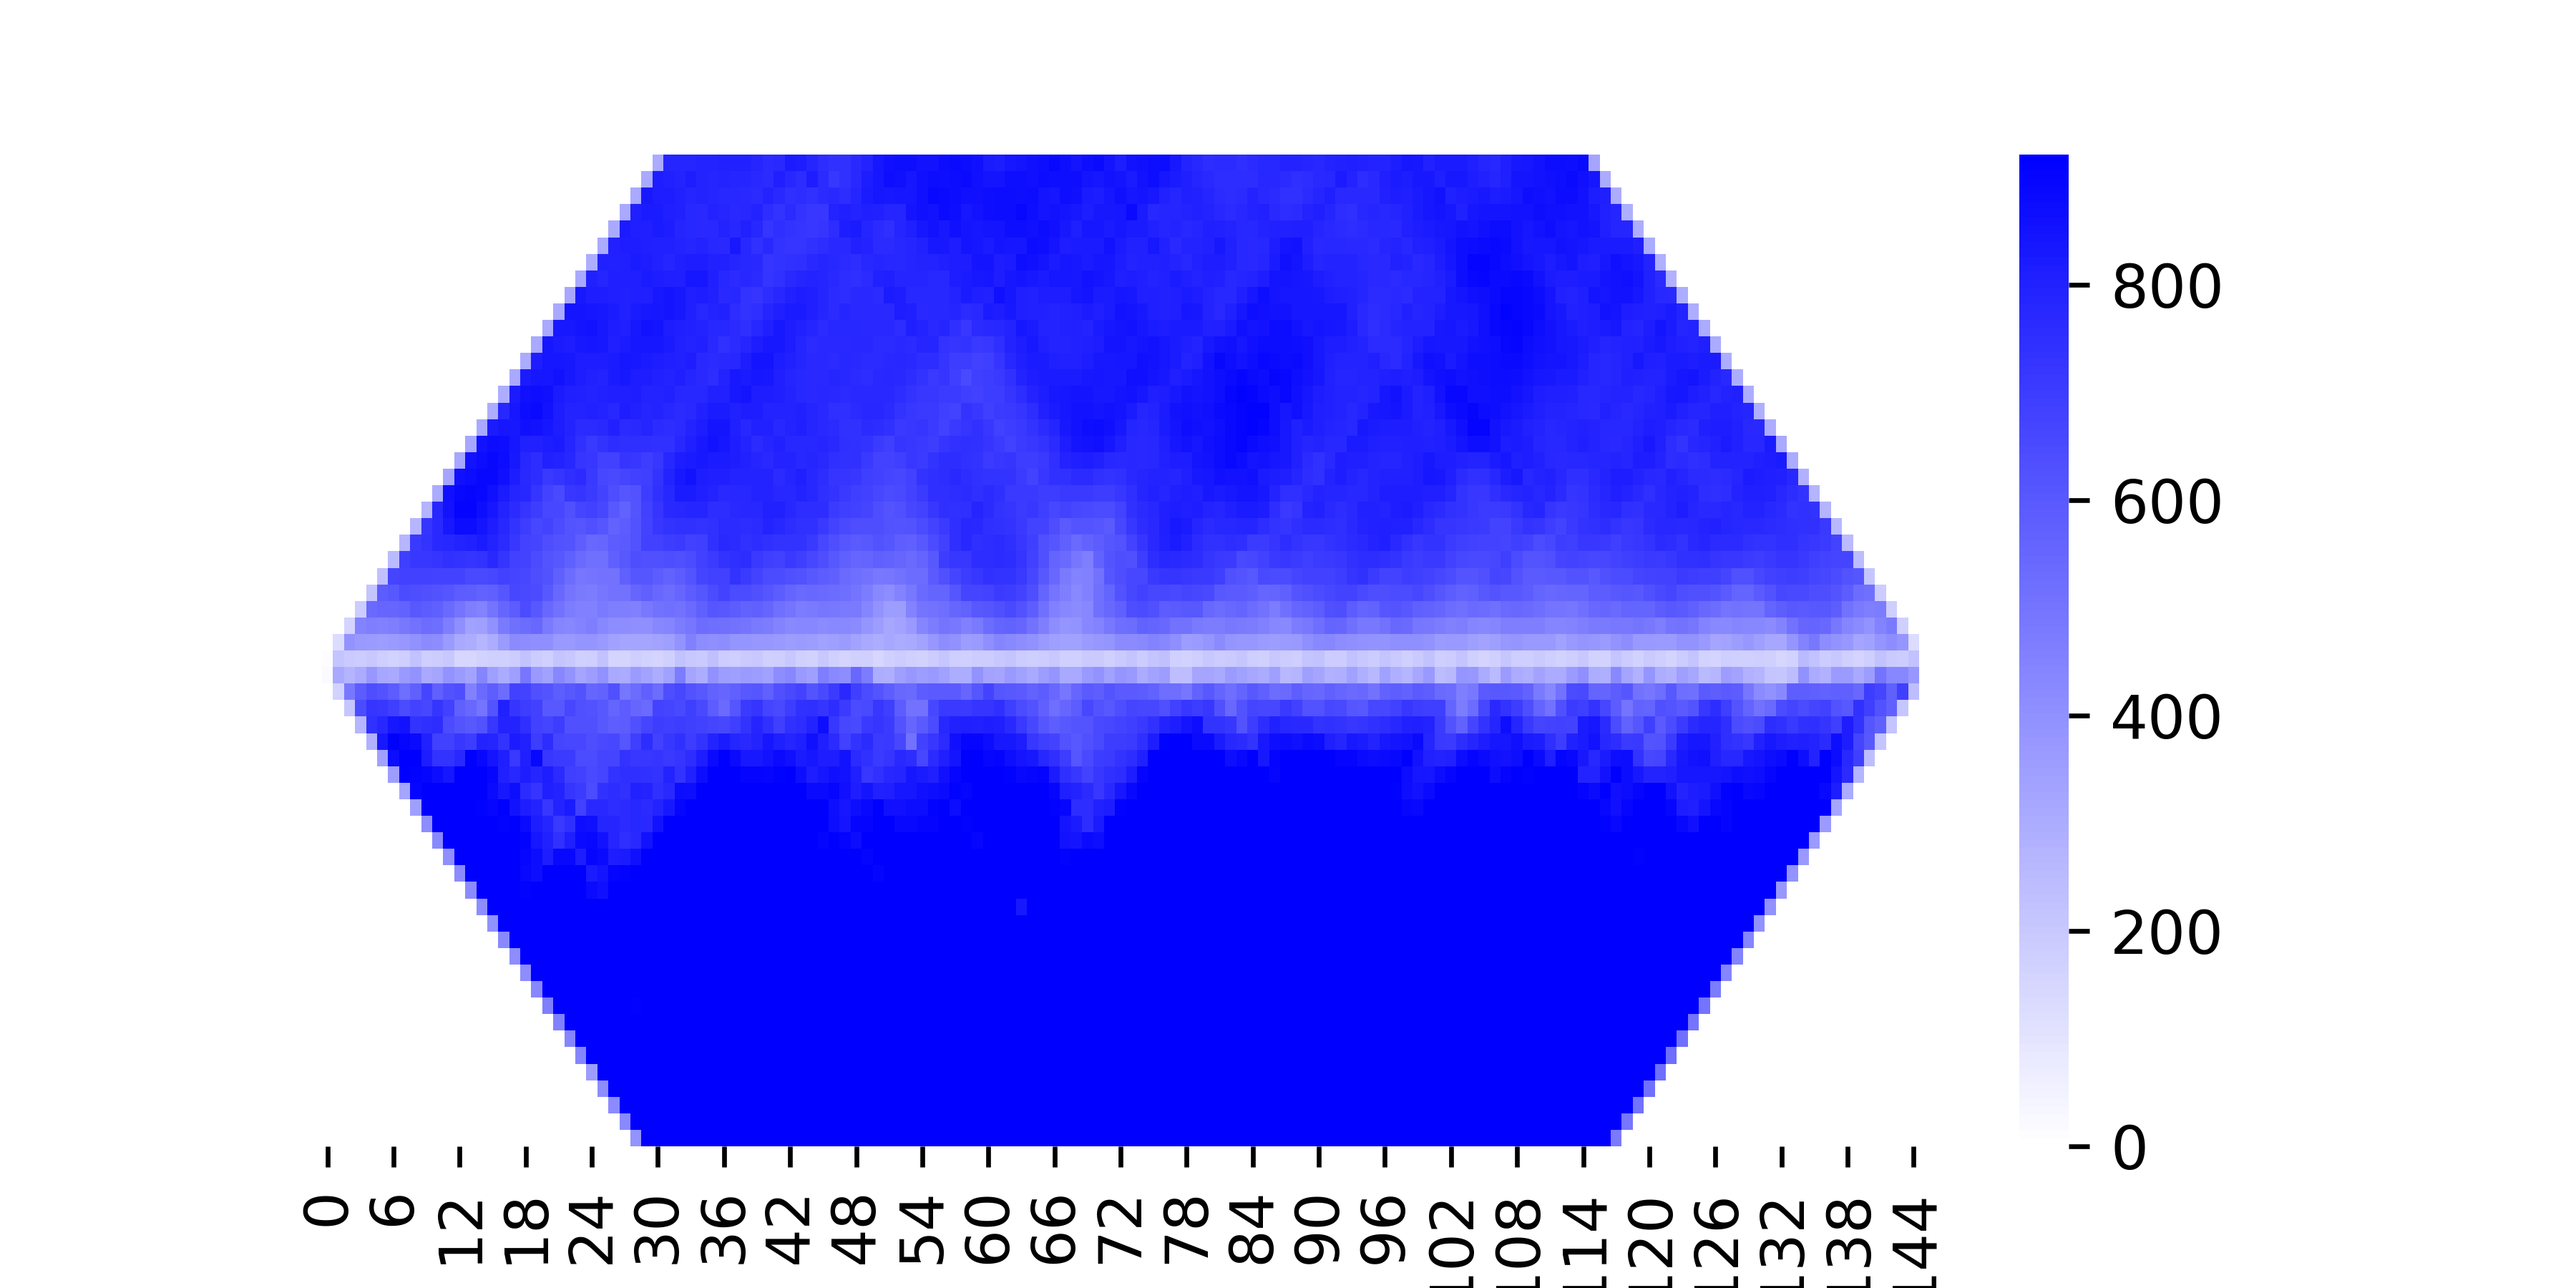
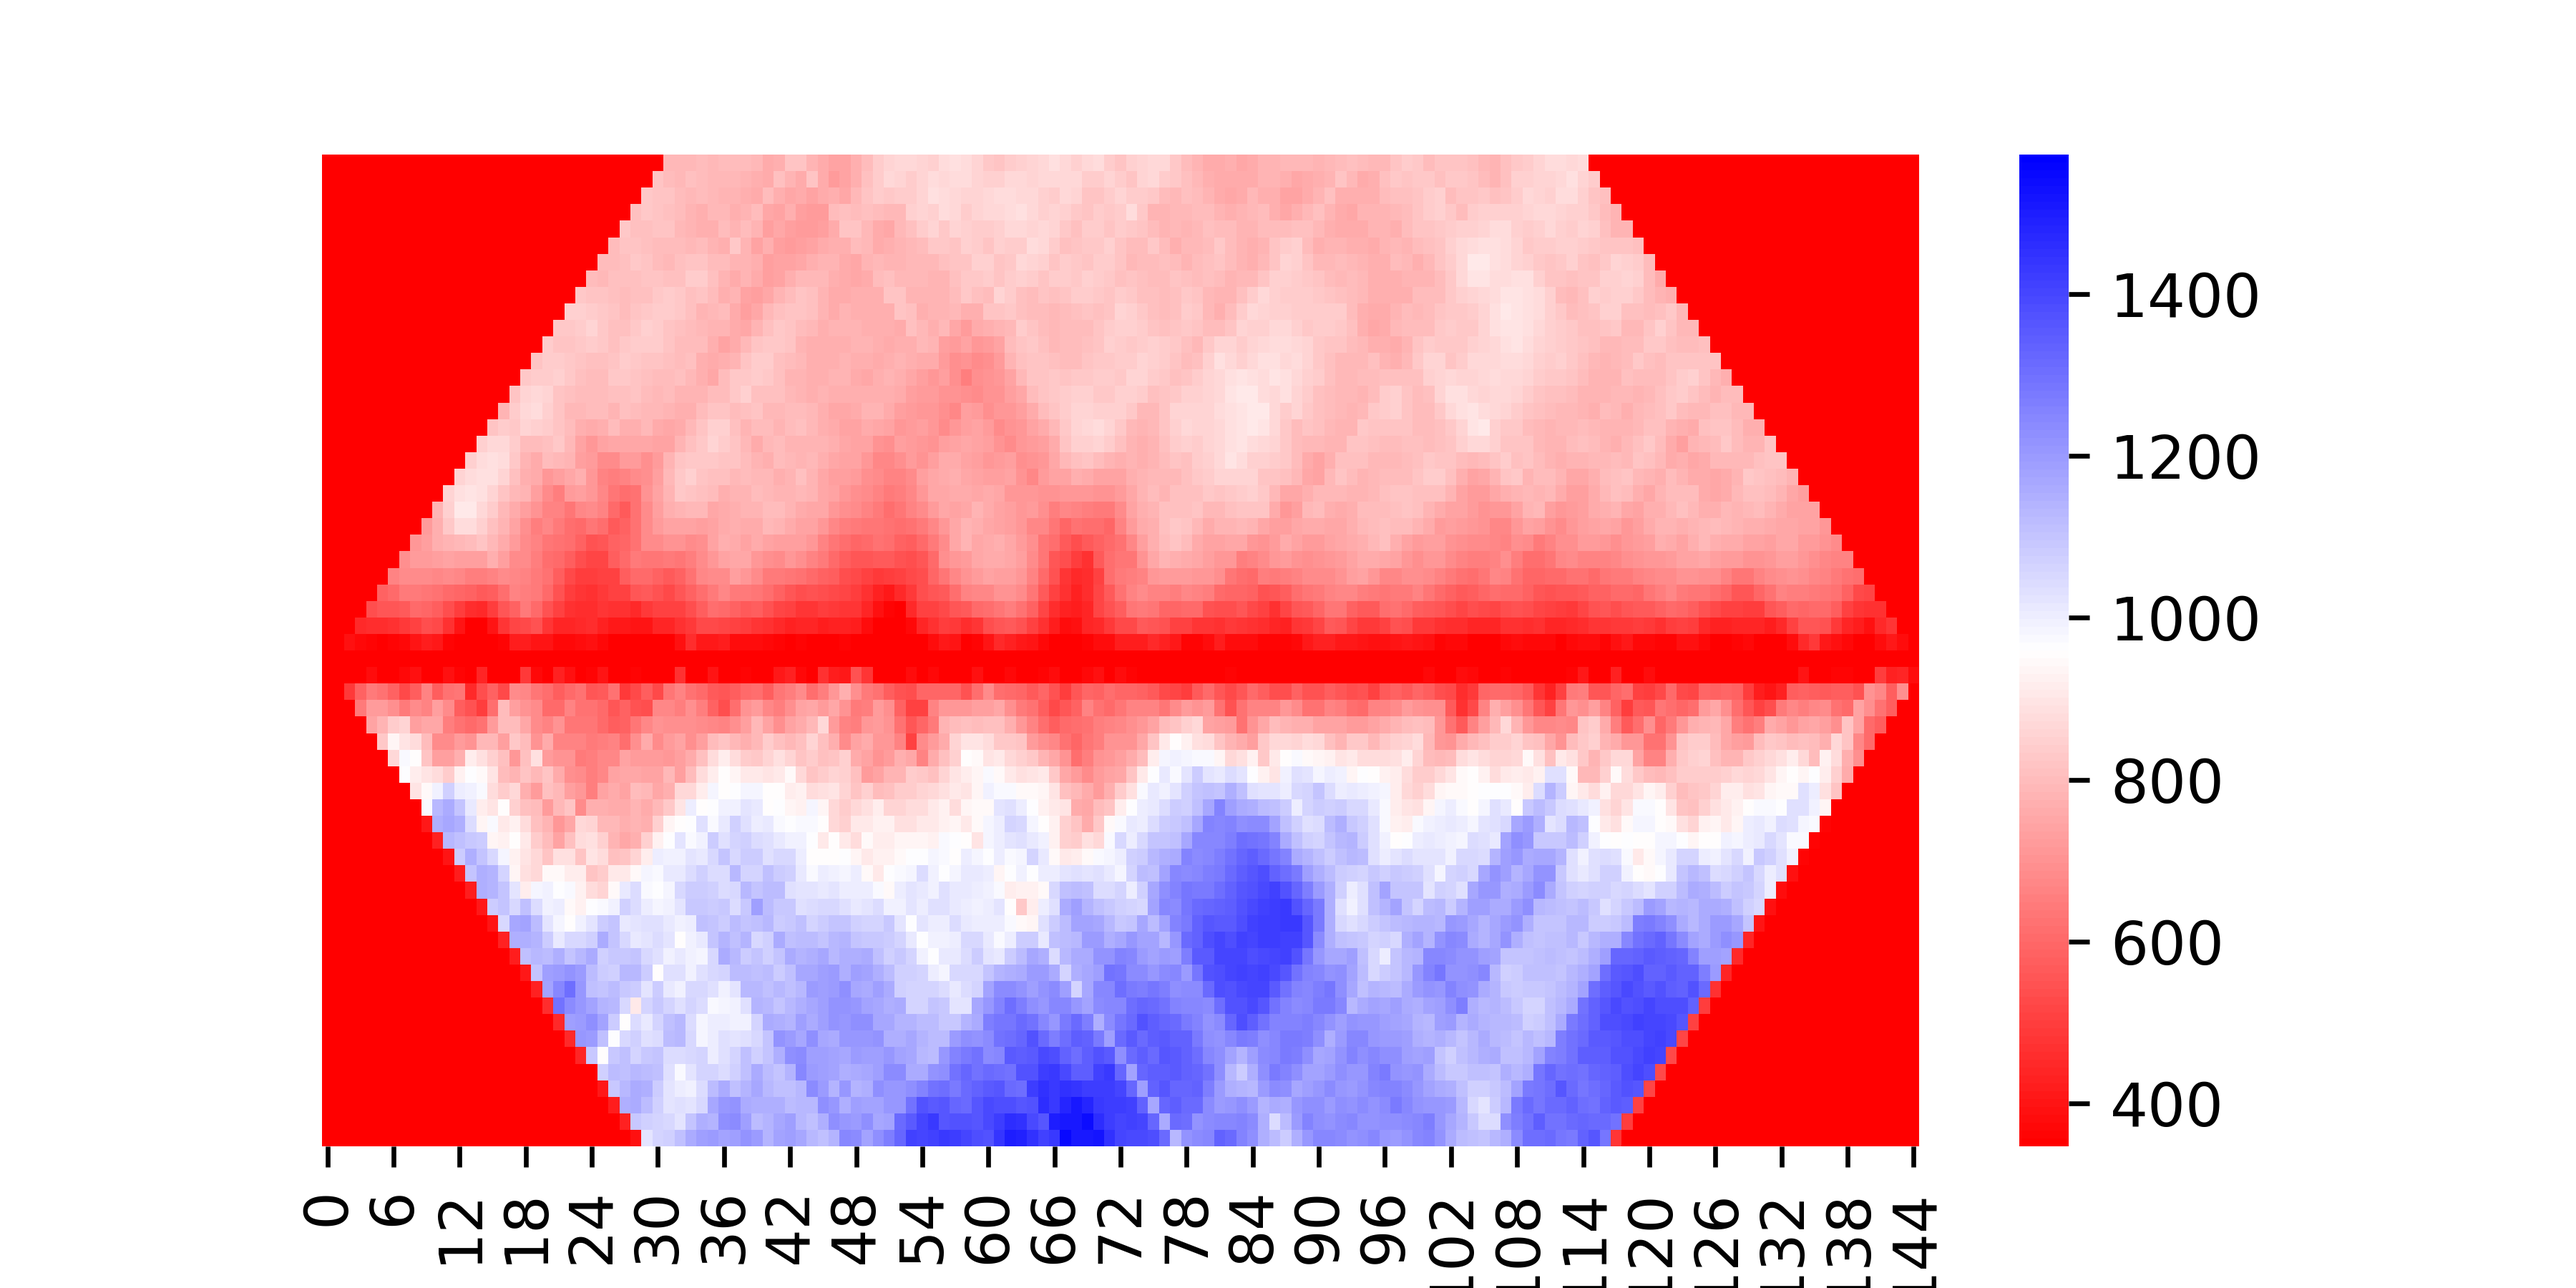
change

diff --git a/scripts/distances_Su2020/su2020_analysis.py b/scripts/distances_Su2020/su2020_analysis.py
@@ -54,7 +54,6 @@ def plot_diagonal(exp, sim, ofile=None):
     # Rotate 45 degs
     resized = rotate_bound(composite,-45)
     print(resized, resized.shape)
-    vmax = np.nanmean(composite)
 
     # crop
     center = resized.shape[0] // 2
@@ -62,9 +61,11 @@ def plot_diagonal(exp, sim, ofile=None):
     resized = resized[center-height:center+height, :]
 
 
+    vmin = np.nanpercentile(exp, 1)
+    vmax = np.nanpercentile(exp, 99)
     fig, ax = plt.subplots(figsize=(6, 3),dpi=600)
     # _pf = ax.imshow(resized, vmin=200, vmax=1000, cmap='seismic')
-    sns.heatmap(resized, ax = ax, linewidth = 0, vmin = 0, vmax = vmax, cmap = BLUE_CMAP)
+    sns.heatmap(resized, ax = ax, linewidth = 0, vmin = vmin, vmax = vmax, cmap = RED_BLUE_CMAP)
     ax.set_yticks([])
 
     if ofile is not None:
